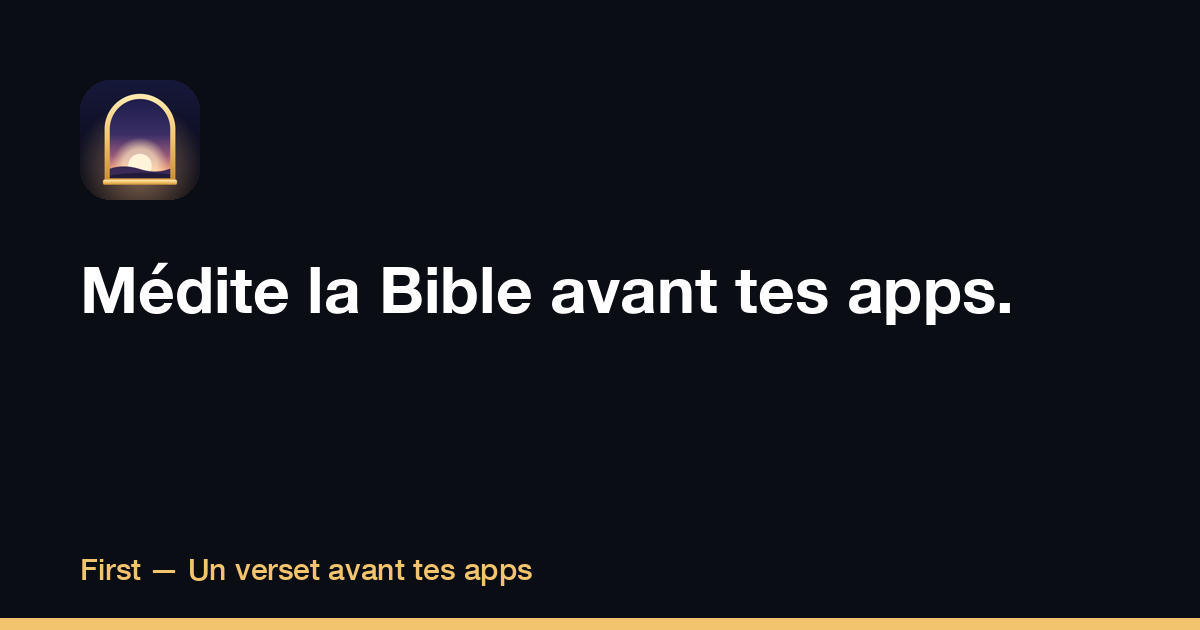
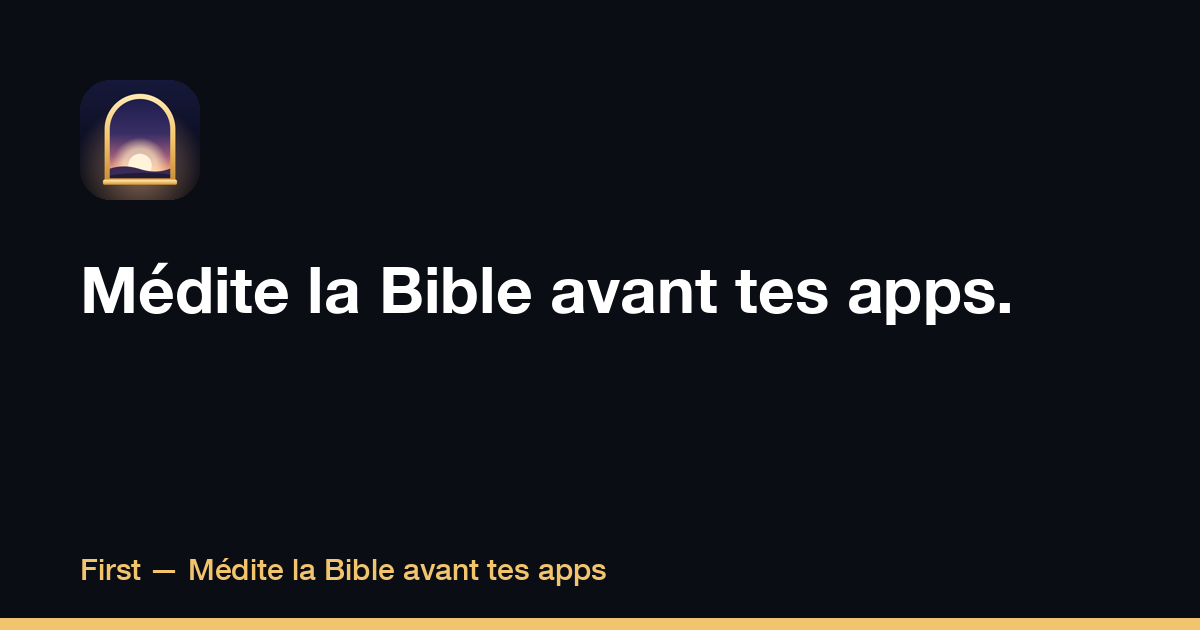
feat(first): show the new tagline on every First page, support page included

Changed region(s): [[0.1542, 0.8746, 0.5242, 0.9349]]

diff --git a/fr/first/index.html b/fr/first/index.html
@@ -3,7 +3,7 @@
 <head>
 <meta charset="utf-8">
 <meta name="viewport" content="width=device-width, initial-scale=1">
-<title>First — un verset de la Bible avant vos apps, chaque jour</title>
+<title>First — Médite la Bible avant tes apps</title>
 <meta name="description" content="First garde vos apps (réseaux sociaux…) verrouillées avec Temps d’écran jusqu’à la lecture du verset du jour : 30 secondes, puis tout se débloque. Sans compte.">
 <link rel="canonical" href="https://apps.shipit.group/fr/first/">
 <link rel="alternate" hreflang="en" href="https://apps.shipit.group/first/"><link rel="alternate" hreflang="fr" href="https://apps.shipit.group/fr/first/"><link rel="alternate" hreflang="x-default" href="https://apps.shipit.group/first/">
@@ -12,7 +12,7 @@
 <meta property="og:type" content="website">
 <meta property="og:site_name" content="SHIP IT">
 <meta property="og:locale" content="fr_FR">
-<meta property="og:title" content="First — un verset de la Bible avant vos apps, chaque jour">
+<meta property="og:title" content="First — Médite la Bible avant tes apps">
 <meta property="og:description" content="First garde vos apps (réseaux sociaux…) verrouillées avec Temps d’écran jusqu’à la lecture du verset du jour : 30 secondes, puis tout se débloque. Sans compte.">
 <meta property="og:url" content="https://apps.shipit.group/fr/first/">
 <meta property="og:image" content="https://apps.shipit.group/assets/site/og/first-fr.png">
@@ -24,7 +24,7 @@
 <style>:root{--strong:#8C6420;--bright:#F2C46D;--tint:#F6EAD0;--wash:#FBF6EC;--deep:#0B0D14;--ondark:#F2C46D;--mutedd:#C9C3B4;--bord:#262A38;--panel:linear-gradient(160deg,#2A2F4A,#0B0D14);--inktint:#0B0D14}</style>
 <link rel="icon" href="/assets/site/favicon.svg" type="image/svg+xml">
 <link rel="alternate" type="application/rss+xml" title="SHIP IT" href="https://apps.shipit.group/fr/feed.xml">
-<script type="application/ld+json">{"@context": "https://schema.org", "@type": "MobileApplication", "name": "First — Un verset avant tes apps", "operatingSystem": "iOS 18.0", "applicationCategory": "LifestyleApplication", "description": "First garde vos apps (réseaux sociaux…) verrouillées avec Temps d’écran jusqu’à la lecture du verset du jour : 30 secondes, puis tout se débloque. Sans compte.", "url": "https://apps.shipit.group/fr/first/", "downloadUrl": "https://apps.apple.com/fr/app/id6822062329", "image": "https://apps.shipit.group/assets/icons/first.png", "inLanguage": "fr", "offers": [{"@type": "Offer", "price": "6.99", "priceCurrency": "EUR"}, {"@type": "Offer", "price": "39.99", "priceCurrency": "EUR"}], "publisher": {"@type": "Organization", "name": "SHIP IT", "url": "https://apps.shipit.group/", "email": "contact@shipit.group", "logo": "https://apps.shipit.group/assets/site/favicon.svg"}}</script><script type="application/ld+json">{"@context": "https://schema.org", "@type": "BreadcrumbList", "itemListElement": [{"@type": "ListItem", "position": 1, "name": "Accueil", "item": "https://apps.shipit.group/fr/"}, {"@type": "ListItem", "position": 2, "name": "First", "item": "https://apps.shipit.group/fr/first/"}]}</script><script type="application/ld+json">{"@context": "https://schema.org", "@type": "FAQPage", "mainEntity": [{"@type": "Question", "name": "Comment fonctionne First ?", "acceptedAnswer": {"@type": "Answer", "text": "Les apps que vous choisissez restent verrouillées via Temps d’écran jusqu’à la lecture du verset du jour : environ 30 secondes avec un verset, une réflexion, une prière et un quiz facultatif. Ensuite, elles se débloquent."}}, {"@type": "Question", "name": "First voit-il mes apps ?", "acceptedAnswer": {"@type": "Answer", "text": "Non. Apple ne transmet à First que des jetons opaques : First ne voit ni le nom de vos apps ni l’usage que vous en faites."}}, {"@type": "Question", "name": "Faut-il créer un compte ?", "acceptedAnswer": {"@type": "Answer", "text": "Non. Tout est stocké sur votre iPhone, sans iCloud ni serveur First."}}, {"@type": "Question", "name": "Et en cas d’urgence ?", "acceptedAnswer": {"@type": "Answer", "text": "Un déblocage d’urgence de 15 minutes est disponible à tout moment."}}, {"@type": "Question", "name": "Combien coûte First ?", "acceptedAnswer": {"@type": "Answer", "text": "First Premium coûte 39,99 € par an avec 3 jours d’essai gratuit, ou 6,99 € par mois. L’abonnement se renouvelle automatiquement et se résilie dans les réglages de votre identifiant Apple."}}]}</script>
+<script type="application/ld+json">{"@context": "https://schema.org", "@type": "MobileApplication", "name": "First — Médite la Bible avant tes apps", "operatingSystem": "iOS 18.0", "applicationCategory": "LifestyleApplication", "description": "First garde vos apps (réseaux sociaux…) verrouillées avec Temps d’écran jusqu’à la lecture du verset du jour : 30 secondes, puis tout se débloque. Sans compte.", "url": "https://apps.shipit.group/fr/first/", "downloadUrl": "https://apps.apple.com/fr/app/id6822062329", "image": "https://apps.shipit.group/assets/icons/first.png", "inLanguage": "fr", "offers": [{"@type": "Offer", "price": "6.99", "priceCurrency": "EUR"}, {"@type": "Offer", "price": "39.99", "priceCurrency": "EUR"}], "publisher": {"@type": "Organization", "name": "SHIP IT", "url": "https://apps.shipit.group/", "email": "contact@shipit.group", "logo": "https://apps.shipit.group/assets/site/favicon.svg"}}</script><script type="application/ld+json">{"@context": "https://schema.org", "@type": "BreadcrumbList", "itemListElement": [{"@type": "ListItem", "position": 1, "name": "Accueil", "item": "https://apps.shipit.group/fr/"}, {"@type": "ListItem", "position": 2, "name": "First", "item": "https://apps.shipit.group/fr/first/"}]}</script><script type="application/ld+json">{"@context": "https://schema.org", "@type": "FAQPage", "mainEntity": [{"@type": "Question", "name": "Comment fonctionne First ?", "acceptedAnswer": {"@type": "Answer", "text": "Les apps que vous choisissez restent verrouillées via Temps d’écran jusqu’à la lecture du verset du jour : environ 30 secondes avec un verset, une réflexion, une prière et un quiz facultatif. Ensuite, elles se débloquent."}}, {"@type": "Question", "name": "First voit-il mes apps ?", "acceptedAnswer": {"@type": "Answer", "text": "Non. Apple ne transmet à First que des jetons opaques : First ne voit ni le nom de vos apps ni l’usage que vous en faites."}}, {"@type": "Question", "name": "Faut-il créer un compte ?", "acceptedAnswer": {"@type": "Answer", "text": "Non. Tout est stocké sur votre iPhone, sans iCloud ni serveur First."}}, {"@type": "Question", "name": "Et en cas d’urgence ?", "acceptedAnswer": {"@type": "Answer", "text": "Un déblocage d’urgence de 15 minutes est disponible à tout moment."}}, {"@type": "Question", "name": "Combien coûte First ?", "acceptedAnswer": {"@type": "Answer", "text": "First Premium coûte 39,99 € par an avec 3 jours d’essai gratuit, ou 6,99 € par mois. L’abonnement se renouvelle automatiquement et se résilie dans les réglages de votre identifiant Apple."}}]}</script>
 </head>
 <body>
 <a class="skip" href="#main">Aller au contenu</a>
@@ -36,7 +36,7 @@
 <nav class="wrap crumbs" aria-label="Fil d’Ariane"><ol><li><a href="/fr/">Accueil</a></li><li aria-current="page">First</li></ol></nav>
 <section class="wrap app-hero" aria-labelledby="hero-t">
 <div class="app-hero__copy">
-<div class="app-hero__id"><img class="icon" src="/assets/icons/first.png" alt="" width="72" height="72"><div><strong>First — Un verset avant tes apps</strong><span>iPhone · iOS 18 et plus · FR, EN, ES, IT, PT</span></div></div>
+<div class="app-hero__id"><img class="icon" src="/assets/icons/first.png" alt="" width="72" height="72"><div><strong>First — Médite la Bible avant tes apps</strong><span>iPhone · iOS 18 et plus · FR, EN, ES, IT, PT</span></div></div>
 <h1 id="hero-t" class="h-display">Médite la Bible avant tes apps.</h1>
 <p class="lead">« Cherchez premièrement le royaume de Dieu » (Matthieu 6:33). First garde les apps que vous choisissez verrouillées jusqu’à votre verset du jour. 30 secondes, puis tout se débloque.</p>
 <div class="app-hero__cta"><a class="btn-appstore" href="https://apps.apple.com/fr/app/id6822062329"><svg width="22" height="22" viewBox="0 0 24 24" fill="none" aria-hidden="true"><path d="M12 3v12m0 0l-5-5m5 5l5-5M5 20h14" stroke="currentColor" stroke-width="1.8" stroke-linecap="round" stroke-linejoin="round"/></svg><span><small>Télécharger dans</small><strong>l’App Store</strong></span></a><span class="app-hero__price">First Premium · annuel 39,99 € avec 3 jours d’essai gratuit · mensuel 6,99 €</span></div>
@@ -53,7 +53,7 @@
 <div class="features"><div class="feature"><span class="feature__n" aria-hidden="true">01</span><h3 class="h3">Vos apps attendent</h3><p>Réseaux sociaux ou autres : les apps choisies restent verrouillées via Temps d’écran jusqu’à votre lecture du jour.</p></div><div class="feature"><span class="feature__n" aria-hidden="true">02</span><h3 class="h3">30 secondes avec Dieu</h3><p>Un verset, une réflexion, une prière et un quiz facultatif. Ensuite, vos apps se débloquent.</p></div><div class="feature"><span class="feature__n" aria-hidden="true">03</span><h3 class="h3">Plans de lecture</h3><p>La Bible en 1 an, les psaumes et d’autres plans, à votre rythme.</p></div><div class="feature"><span class="feature__n" aria-hidden="true">04</span><h3 class="h3">Versets favoris</h3><p>Gardez les versets qui vous parlent pour les relire.</p></div><div class="feature"><span class="feature__n" aria-hidden="true">05</span><h3 class="h3">Widgets et série</h3><p>Le verset et votre série « Jour N » sur l’écran d’accueil.</p></div><div class="feature"><span class="feature__n" aria-hidden="true">06</span><h3 class="h3">Déblocage d’urgence</h3><p>Besoin d’une app tout de suite ? Débloquez 15 minutes, à tout moment.</p></div></div>
 </div></section>
 <section class="sect sect--deep" aria-labelledby="hl-t"><div class="wrap split">
-<div style="display:flex;flex-direction:column;gap:20px"><p class="eyebrow">Le principe</p><h2 id="hl-t" class="h2">Un verset avant tes apps.</h2><p style="margin:0;max-width:480px;font-size:18px;line-height:1.55;color:var(--mutedd)">Vos apps restent verrouillées jusqu’à la lecture. First ne voit ni le nom de vos apps ni ce que vous y faites.</p></div>
+<div style="display:flex;flex-direction:column;gap:20px"><p class="eyebrow">Le principe</p><h2 id="hl-t" class="h2">Médite la Bible avant tes apps.</h2><p style="margin:0;max-width:480px;font-size:18px;line-height:1.55;color:var(--mutedd)">Vos apps restent verrouillées jusqu’à la lecture. First ne voit ni le nom de vos apps ni ce que vous y faites.</p></div>
 <dl class="stats"><div><dt>30 s</dt><dd>Pour le verset du jour</dd></div><div><dt>15 min</dt><dd>De déblocage d’urgence</dd></div><div><dt>0</dt><dd>Compte à créer</dd></div></dl>
 </div></section>
 <section id="pricing" class="wrap sect" aria-labelledby="price-t"><div style="display:flex;flex-direction:column;gap:12px;align-items:center;text-align:center"><p class="eyebrow">Tarifs</p><h2 id="price-t" class="h2">Commencez gratuitement.</h2></div><div class="plans"><div class="plan"><h3>Mensuel</h3><p class="plan__price">6,99 €</p><p class="muted">par mois. Blocage des apps, widgets et plans de lecture.</p><a class="btn btn--ghost" href="https://apps.apple.com/fr/app/id6822062329">Télécharger</a></div><div class="plan plan--pro"><div class="plan__head"><h3>Annuel</h3><span class=badge-white>3 jours offerts</span></div><p class="plan__price">39,99 €</p><p>par an. 3 jours d’essai gratuit.</p><a class="btn btn--white" href="https://apps.apple.com/fr/app/id6822062329">Essayer</a></div></div></section>

diff --git a/first/index.html b/first/index.html
@@ -3,7 +3,7 @@
 <head>
 <meta charset="utf-8">
 <meta name="viewport" content="width=device-width, initial-scale=1">
-<title>First — a Bible verse before your apps, every day</title>
+<title>First — Meditate on the Bible before your apps</title>
 <meta name="description" content="First keeps your apps (social media…) locked with Screen Time until you read the verse of the day: 30 seconds, then everything unlocks. No account.">
 <link rel="canonical" href="https://apps.shipit.group/first/">
 <link rel="alternate" hreflang="en" href="https://apps.shipit.group/first/"><link rel="alternate" hreflang="fr" href="https://apps.shipit.group/fr/first/"><link rel="alternate" hreflang="x-default" href="https://apps.shipit.group/first/">
@@ -12,7 +12,7 @@
 <meta property="og:type" content="website">
 <meta property="og:site_name" content="SHIP IT">
 <meta property="og:locale" content="en_US">
-<meta property="og:title" content="First — a Bible verse before your apps, every day">
+<meta property="og:title" content="First — Meditate on the Bible before your apps">
 <meta property="og:description" content="First keeps your apps (social media…) locked with Screen Time until you read the verse of the day: 30 seconds, then everything unlocks. No account.">
 <meta property="og:url" content="https://apps.shipit.group/first/">
 <meta property="og:image" content="https://apps.shipit.group/assets/site/og/first-en.png">
@@ -24,7 +24,7 @@
 <style>:root{--strong:#8C6420;--bright:#F2C46D;--tint:#F6EAD0;--wash:#FBF6EC;--deep:#0B0D14;--ondark:#F2C46D;--mutedd:#C9C3B4;--bord:#262A38;--panel:linear-gradient(160deg,#2A2F4A,#0B0D14);--inktint:#0B0D14}</style>
 <link rel="icon" href="/assets/site/favicon.svg" type="image/svg+xml">
 <link rel="alternate" type="application/rss+xml" title="SHIP IT" href="https://apps.shipit.group/feed.xml">
-<script type="application/ld+json">{"@context": "https://schema.org", "@type": "MobileApplication", "name": "First — A verse before your apps", "operatingSystem": "iOS 18.0", "applicationCategory": "LifestyleApplication", "description": "First keeps your apps (social media…) locked with Screen Time until you read the verse of the day: 30 seconds, then everything unlocks. No account.", "url": "https://apps.shipit.group/first/", "downloadUrl": "https://apps.apple.com/app/id6822062329", "image": "https://apps.shipit.group/assets/icons/first.png", "inLanguage": "en", "offers": [{"@type": "Offer", "price": "6.99", "priceCurrency": "EUR"}, {"@type": "Offer", "price": "39.99", "priceCurrency": "EUR"}], "publisher": {"@type": "Organization", "name": "SHIP IT", "url": "https://apps.shipit.group/", "email": "contact@shipit.group", "logo": "https://apps.shipit.group/assets/site/favicon.svg"}}</script><script type="application/ld+json">{"@context": "https://schema.org", "@type": "BreadcrumbList", "itemListElement": [{"@type": "ListItem", "position": 1, "name": "Home", "item": "https://apps.shipit.group/"}, {"@type": "ListItem", "position": 2, "name": "First", "item": "https://apps.shipit.group/first/"}]}</script><script type="application/ld+json">{"@context": "https://schema.org", "@type": "FAQPage", "mainEntity": [{"@type": "Question", "name": "How does First work?", "acceptedAnswer": {"@type": "Answer", "text": "The apps you choose stay locked with Screen Time until you read the verse of the day: about 30 seconds with a verse, a reflection, a prayer and an optional quiz. Then they unlock."}}, {"@type": "Question", "name": "Can First see my apps?", "acceptedAnswer": {"@type": "Answer", "text": "No. Apple only gives First opaque tokens: First cannot see the names of your apps or how you use them."}}, {"@type": "Question", "name": "Do I need an account?", "acceptedAnswer": {"@type": "Answer", "text": "No. Everything is stored on your iPhone, with no iCloud and no First server."}}, {"@type": "Question", "name": "What if it’s an emergency?", "acceptedAnswer": {"@type": "Answer", "text": "A 15-minute emergency unlock is available at any time."}}, {"@type": "Question", "name": "How much does First cost?", "acceptedAnswer": {"@type": "Answer", "text": "First Premium costs €39.99 per year with a 3-day free trial, or €6.99 per month. The subscription renews automatically and can be cancelled in your Apple ID settings."}}]}</script>
+<script type="application/ld+json">{"@context": "https://schema.org", "@type": "MobileApplication", "name": "First — Meditate on the Bible before your apps", "operatingSystem": "iOS 18.0", "applicationCategory": "LifestyleApplication", "description": "First keeps your apps (social media…) locked with Screen Time until you read the verse of the day: 30 seconds, then everything unlocks. No account.", "url": "https://apps.shipit.group/first/", "downloadUrl": "https://apps.apple.com/app/id6822062329", "image": "https://apps.shipit.group/assets/icons/first.png", "inLanguage": "en", "offers": [{"@type": "Offer", "price": "6.99", "priceCurrency": "EUR"}, {"@type": "Offer", "price": "39.99", "priceCurrency": "EUR"}], "publisher": {"@type": "Organization", "name": "SHIP IT", "url": "https://apps.shipit.group/", "email": "contact@shipit.group", "logo": "https://apps.shipit.group/assets/site/favicon.svg"}}</script><script type="application/ld+json">{"@context": "https://schema.org", "@type": "BreadcrumbList", "itemListElement": [{"@type": "ListItem", "position": 1, "name": "Home", "item": "https://apps.shipit.group/"}, {"@type": "ListItem", "position": 2, "name": "First", "item": "https://apps.shipit.group/first/"}]}</script><script type="application/ld+json">{"@context": "https://schema.org", "@type": "FAQPage", "mainEntity": [{"@type": "Question", "name": "How does First work?", "acceptedAnswer": {"@type": "Answer", "text": "The apps you choose stay locked with Screen Time until you read the verse of the day: about 30 seconds with a verse, a reflection, a prayer and an optional quiz. Then they unlock."}}, {"@type": "Question", "name": "Can First see my apps?", "acceptedAnswer": {"@type": "Answer", "text": "No. Apple only gives First opaque tokens: First cannot see the names of your apps or how you use them."}}, {"@type": "Question", "name": "Do I need an account?", "acceptedAnswer": {"@type": "Answer", "text": "No. Everything is stored on your iPhone, with no iCloud and no First server."}}, {"@type": "Question", "name": "What if it’s an emergency?", "acceptedAnswer": {"@type": "Answer", "text": "A 15-minute emergency unlock is available at any time."}}, {"@type": "Question", "name": "How much does First cost?", "acceptedAnswer": {"@type": "Answer", "text": "First Premium costs €39.99 per year with a 3-day free trial, or €6.99 per month. The subscription renews automatically and can be cancelled in your Apple ID settings."}}]}</script>
 </head>
 <body>
 <a class="skip" href="#main">Skip to content</a>
@@ -36,7 +36,7 @@
 <nav class="wrap crumbs" aria-label="Breadcrumb"><ol><li><a href="/">Home</a></li><li aria-current="page">First</li></ol></nav>
 <section class="wrap app-hero" aria-labelledby="hero-t">
 <div class="app-hero__copy">
-<div class="app-hero__id"><img class="icon" src="/assets/icons/first.png" alt="" width="72" height="72"><div><strong>First — A verse before your apps</strong><span>iPhone · iOS 18 or later · EN, FR, ES, IT, PT</span></div></div>
+<div class="app-hero__id"><img class="icon" src="/assets/icons/first.png" alt="" width="72" height="72"><div><strong>First — Meditate on the Bible before your apps</strong><span>iPhone · iOS 18 or later · EN, FR, ES, IT, PT</span></div></div>
 <h1 id="hero-t" class="h-display">Meditate on the Bible before your apps.</h1>
 <p class="lead">“Seek ye first the kingdom of God” (Matthew 6:33). First keeps the apps you choose locked until you read your verse of the day. 30 seconds, then everything unlocks.</p>
 <div class="app-hero__cta"><a class="btn-appstore" href="https://apps.apple.com/app/id6822062329"><svg width="22" height="22" viewBox="0 0 24 24" fill="none" aria-hidden="true"><path d="M12 3v12m0 0l-5-5m5 5l5-5M5 20h14" stroke="currentColor" stroke-width="1.8" stroke-linecap="round" stroke-linejoin="round"/></svg><span><small>Download on the</small><strong>App Store</strong></span></a><span class="app-hero__price">First Premium · yearly €39.99 with a 3-day free trial · monthly €6.99</span></div>
@@ -53,7 +53,7 @@
 <div class="features"><div class="feature"><span class="feature__n" aria-hidden="true">01</span><h3 class="h3">Your apps can wait</h3><p>Social media or anything else: the apps you choose stay locked with Screen Time until you read today’s verse.</p></div><div class="feature"><span class="feature__n" aria-hidden="true">02</span><h3 class="h3">30 seconds with God</h3><p>A verse, a reflection, a prayer and an optional quiz. Then your apps unlock.</p></div><div class="feature"><span class="feature__n" aria-hidden="true">03</span><h3 class="h3">Reading plans</h3><p>The Bible in a year, the Psalms and more, at your own pace.</p></div><div class="feature"><span class="feature__n" aria-hidden="true">04</span><h3 class="h3">Favorite verses</h3><p>Keep the verses that speak to you and read them again.</p></div><div class="feature"><span class="feature__n" aria-hidden="true">05</span><h3 class="h3">Widgets and streak</h3><p>The verse and your “Day N” streak on your Home Screen.</p></div><div class="feature"><span class="feature__n" aria-hidden="true">06</span><h3 class="h3">Emergency unlock</h3><p>Need an app right now? Unlock for 15 minutes, any time.</p></div></div>
 </div></section>
 <section class="sect sect--deep" aria-labelledby="hl-t"><div class="wrap split">
-<div style="display:flex;flex-direction:column;gap:20px"><p class="eyebrow">How it works</p><h2 id="hl-t" class="h2">A verse before your apps.</h2><p style="margin:0;max-width:480px;font-size:18px;line-height:1.55;color:var(--mutedd)">Your apps stay locked until you read. First cannot see the names of your apps or what you do in them.</p></div>
+<div style="display:flex;flex-direction:column;gap:20px"><p class="eyebrow">How it works</p><h2 id="hl-t" class="h2">Meditate on the Bible before your apps.</h2><p style="margin:0;max-width:480px;font-size:18px;line-height:1.55;color:var(--mutedd)">Your apps stay locked until you read. First cannot see the names of your apps or what you do in them.</p></div>
 <dl class="stats"><div><dt>30 s</dt><dd>For the verse of the day</dd></div><div><dt>15 min</dt><dd>Emergency unlock</dd></div><div><dt>0</dt><dd>Accounts to create</dd></div></dl>
 </div></section>
 <section id="pricing" class="wrap sect" aria-labelledby="price-t"><div style="display:flex;flex-direction:column;gap:12px;align-items:center;text-align:center"><p class="eyebrow">Pricing</p><h2 id="price-t" class="h2">Start for free.</h2></div><div class="plans"><div class="plan"><h3>Monthly</h3><p class="plan__price">€6.99</p><p class="muted">per month. App locking, widgets and reading plans.</p><a class="btn btn--ghost" href="https://apps.apple.com/app/id6822062329">Download</a></div><div class="plan plan--pro"><div class="plan__head"><h3>Yearly</h3><span class=badge-white>3 days free</span></div><p class="plan__price">€39.99</p><p>per year. 3-day free trial.</p><a class="btn btn--white" href="https://apps.apple.com/app/id6822062329">Try it</a></div></div></section>

diff --git a/first/support.html b/first/support.html
@@ -60,7 +60,7 @@
           <details class="faq-item animate-in animate-in-delay-1">
             <summary>Comment fonctionne First ?</summary>
             <div class="faq-item__body">
-              <p>Dieu d’abord. Tes apps ensuite. « Cherchez premièrement le royaume de Dieu » (Matthieu 6:33). Les apps que vous choisissez restent verrouillées jusqu’à la lecture du verset du jour : environ 30 secondes avec un verset, une réflexion, une prière et un quiz facultatif. Ensuite, vos apps se débloquent.</p>
+              <p>Médite la Bible avant tes apps. « Cherchez premièrement le royaume de Dieu » (Matthieu 6:33). Les apps que vous choisissez restent verrouillées jusqu’à la lecture du verset du jour : environ 30 secondes avec un verset, une réflexion, une prière et un quiz facultatif. Ensuite, vos apps se débloquent.</p>
             </div>
           </details>
           <details class="faq-item animate-in animate-in-delay-2">
@@ -163,7 +163,7 @@
           <details class="faq-item animate-in animate-in-delay-1">
             <summary>How does First work?</summary>
             <div class="faq-item__body">
-              <p>God first. Your apps next. “Seek ye first the kingdom of God” (Matthew 6:33). The apps you choose stay locked until you read the verse of the day: about 30 seconds with a verse, a reflection, a prayer and an optional quiz. Then your apps unlock.</p>
+              <p>Meditate on the Bible before your apps. “Seek ye first the kingdom of God” (Matthew 6:33). The apps you choose stay locked until you read the verse of the day: about 30 seconds with a verse, a reflection, a prayer and an optional quiz. Then your apps unlock.</p>
             </div>
           </details>
           <details class="faq-item animate-in animate-in-delay-2">
@@ -266,7 +266,7 @@
           <details class="faq-item animate-in animate-in-delay-1">
             <summary>¿Cómo funciona First?</summary>
             <div class="faq-item__body">
-              <p>Dios primero. Tus apps después. «Buscad primeramente el reino de Dios» (Mateo 6:33). Las apps que eliges permanecen bloqueadas hasta que lees el versículo del día: unos 30 segundos con un versículo, una reflexión, una oración y un cuestionario opcional. Después, tus apps se desbloquean.</p>
+              <p>Medita la Biblia antes de tus apps. «Buscad primeramente el reino de Dios» (Mateo 6:33). Las apps que eliges permanecen bloqueadas hasta que lees el versículo del día: unos 30 segundos con un versículo, una reflexión, una oración y un cuestionario opcional. Después, tus apps se desbloquean.</p>
             </div>
           </details>
           <details class="faq-item animate-in animate-in-delay-2">
@@ -369,7 +369,7 @@
           <details class="faq-item animate-in animate-in-delay-1">
             <summary>Come funziona First?</summary>
             <div class="faq-item__body">
-              <p>Prima Dio. Poi le tue app. «Cercate prima il regno di Dio» (Matteo 6:33). Le app che scegli restano bloccate finché non leggi il versetto del giorno: circa 30 secondi con un versetto, una riflessione, una preghiera e un quiz facoltativo. Poi le tue app si sbloccano.</p>
+              <p>Medita la Bibbia prima delle tue app. «Cercate prima il regno di Dio» (Matteo 6:33). Le app che scegli restano bloccate finché non leggi il versetto del giorno: circa 30 secondi con un versetto, una riflessione, una preghiera e un quiz facoltativo. Poi le tue app si sbloccano.</p>
             </div>
           </details>
           <details class="faq-item animate-in animate-in-delay-2">
@@ -472,7 +472,7 @@
           <details class="faq-item animate-in animate-in-delay-1">
             <summary>Como o First funciona?</summary>
             <div class="faq-item__body">
-              <p>Deus primeiro. Seus apps depois. «Buscai primeiro o reino de Deus» (Mateus 6:33). Os apps que você escolhe ficam bloqueados até você ler o versículo do dia: cerca de 30 segundos com um versículo, uma reflexão, uma oração e um quiz opcional. Depois, seus apps são desbloqueados.</p>
+              <p>Medite na Bíblia antes dos seus apps. «Buscai primeiro o reino de Deus» (Mateus 6:33). Os apps que você escolhe ficam bloqueados até você ler o versículo do dia: cerca de 30 segundos com um versículo, uma reflexão, uma oração e um quiz opcional. Depois, seus apps são desbloqueados.</p>
             </div>
           </details>
           <details class="faq-item animate-in animate-in-delay-2">

diff --git a/_build/content_apps.py b/_build/content_apps.py
@@ -159,38 +159,38 @@ APPS = {
   'shot_lang_fallback': 'fr',  # TODO: captures anglaises de First non disponibles
   'i18n': {
    'fr': dict(
-     title='First — un verset de la Bible avant vos apps, chaque jour',
+     title='First — Médite la Bible avant tes apps',
      desc='First garde vos apps (réseaux sociaux…) verrouillées avec Temps d’écran jusqu’à la lecture du verset du jour : 30 secondes, puis tout se débloque. Sans compte.',
-     full_name='First — Un verset avant tes apps', sub='iPhone · iOS 18 et plus · FR, EN, ES, IT, PT',
+     full_name='First — Médite la Bible avant tes apps', sub='iPhone · iOS 18 et plus · FR, EN, ES, IT, PT',
      h1='Médite la Bible avant tes apps.',
      lead='« Cherchez premièrement le royaume de Dieu » (Matthieu 6:33). First garde les apps que vous choisissez verrouillées jusqu’à votre verset du jour. 30 secondes, puis tout se débloque.',
      price_line='First Premium · annuel 39,99 € avec 3 jours d’essai gratuit · mensuel 6,99 €',
      shot_alts=['Accueil : le verset du jour vous attend', 'Écran de blocage : lire pour débloquer', 'Le verset en plein écran', 'Un plan de lecture : la Bible en 1 an', 'Widgets : série et apps en attente'],
      feat_title='Le verset d’abord, le reste ensuite.',
      features=[('Vos apps attendent', 'Réseaux sociaux ou autres : les apps choisies restent verrouillées via Temps d’écran jusqu’à votre lecture du jour.'), ('30 secondes avec Dieu', 'Un verset, une réflexion, une prière et un quiz facultatif. Ensuite, vos apps se débloquent.'), ('Plans de lecture', 'La Bible en 1 an, les psaumes et d’autres plans, à votre rythme.'), ('Versets favoris', 'Gardez les versets qui vous parlent pour les relire.'), ('Widgets et série', 'Le verset et votre série « Jour N » sur l’écran d’accueil.'), ('Déblocage d’urgence', 'Besoin d’une app tout de suite ? Débloquez 15 minutes, à tout moment.')],
-     hl=('Le principe', 'Un verset avant tes apps.', 'Vos apps restent verrouillées jusqu’à la lecture. First ne voit ni le nom de vos apps ni ce que vous y faites.', [('30 s', 'Pour le verset du jour'), ('15 min', 'De déblocage d’urgence'), ('0', 'Compte à créer')]),
+     hl=('Le principe', 'Médite la Bible avant tes apps.', 'Vos apps restent verrouillées jusqu’à la lecture. First ne voit ni le nom de vos apps ni ce que vous y faites.', [('30 s', 'Pour le verset du jour'), ('15 min', 'De déblocage d’urgence'), ('0', 'Compte à créer')]),
      plans=[('Mensuel', '6,99 €', 'par mois. Blocage des apps, widgets et plans de lecture.', False, None), ('Annuel', '39,99 €', 'par an. 3 jours d’essai gratuit.', True, '3 jours offerts')],
      faq=[('Comment fonctionne First ?', 'Les apps que vous choisissez restent verrouillées via Temps d’écran jusqu’à la lecture du verset du jour : environ 30 secondes avec un verset, une réflexion, une prière et un quiz facultatif. Ensuite, elles se débloquent.'), ('First voit-il mes apps ?', 'Non. Apple ne transmet à First que des jetons opaques : First ne voit ni le nom de vos apps ni l’usage que vous en faites.'), ('Faut-il créer un compte ?', 'Non. Tout est stocké sur votre iPhone, sans iCloud ni serveur First.'), ('Et en cas d’urgence ?', 'Un déblocage d’urgence de 15 minutes est disponible à tout moment.'), ('Combien coûte First ?', 'First Premium coûte 39,99 € par an avec 3 jours d’essai gratuit, ou 6,99 € par mois. L’abonnement se renouvelle automatiquement et se résilie dans les réglages de votre identifiant Apple.')],
      cta='Médite la Bible avant tes apps.',
      disclaimer='First est une application éditée par SHIP IT. Ce n’est pas un outil de contrôle parental.',
-     blog_h1='Un verset avant tes apps.', blog_lead='Lecture de la Bible, temps d’écran et habitudes du matin.', blog_title='Blog First',
+     blog_h1='Médite la Bible avant tes apps.', blog_lead='Lecture de la Bible, temps d’écran et habitudes du matin.', blog_title='Blog First',
    ),
    'en': dict(
-     title='First — a Bible verse before your apps, every day',
+     title='First — Meditate on the Bible before your apps',
      desc='First keeps your apps (social media…) locked with Screen Time until you read the verse of the day: 30 seconds, then everything unlocks. No account.',
-     full_name='First — A verse before your apps', sub='iPhone · iOS 18 or later · EN, FR, ES, IT, PT',
+     full_name='First — Meditate on the Bible before your apps', sub='iPhone · iOS 18 or later · EN, FR, ES, IT, PT',
      h1='Meditate on the Bible before your apps.',
      lead='“Seek ye first the kingdom of God” (Matthew 6:33). First keeps the apps you choose locked until you read your verse of the day. 30 seconds, then everything unlocks.',
      price_line='First Premium · yearly €39.99 with a 3-day free trial · monthly €6.99',
      shot_alts=['Home: your verse of the day is waiting', 'Shield screen: read to unlock', 'The verse, full screen', 'A reading plan: the Bible in a year', 'Widgets: streak and apps waiting'],
      feat_title='The verse first, everything else next.',
      features=[('Your apps can wait', 'Social media or anything else: the apps you choose stay locked with Screen Time until you read today’s verse.'), ('30 seconds with God', 'A verse, a reflection, a prayer and an optional quiz. Then your apps unlock.'), ('Reading plans', 'The Bible in a year, the Psalms and more, at your own pace.'), ('Favorite verses', 'Keep the verses that speak to you and read them again.'), ('Widgets and streak', 'The verse and your “Day N” streak on your Home Screen.'), ('Emergency unlock', 'Need an app right now? Unlock for 15 minutes, any time.')],
-     hl=('How it works', 'A verse before your apps.', 'Your apps stay locked until you read. First cannot see the names of your apps or what you do in them.', [('30 s', 'For the verse of the day'), ('15 min', 'Emergency unlock'), ('0', 'Accounts to create')]),
+     hl=('How it works', 'Meditate on the Bible before your apps.', 'Your apps stay locked until you read. First cannot see the names of your apps or what you do in them.', [('30 s', 'For the verse of the day'), ('15 min', 'Emergency unlock'), ('0', 'Accounts to create')]),
      plans=[('Monthly', '€6.99', 'per month. App locking, widgets and reading plans.', False, None), ('Yearly', '€39.99', 'per year. 3-day free trial.', True, '3 days free')],
      faq=[('How does First work?', 'The apps you choose stay locked with Screen Time until you read the verse of the day: about 30 seconds with a verse, a reflection, a prayer and an optional quiz. Then they unlock.'), ('Can First see my apps?', 'No. Apple only gives First opaque tokens: First cannot see the names of your apps or how you use them.'), ('Do I need an account?', 'No. Everything is stored on your iPhone, with no iCloud and no First server.'), ('What if it’s an emergency?', 'A 15-minute emergency unlock is available at any time.'), ('How much does First cost?', 'First Premium costs €39.99 per year with a 3-day free trial, or €6.99 per month. The subscription renews automatically and can be cancelled in your Apple ID settings.')],
      cta='Meditate on the Bible before your apps.',
      disclaimer='First is an app made by SHIP IT. It is not a parental control tool.',
-     blog_h1='A verse before your apps.', blog_lead='Bible reading, screen time and morning habits.', blog_title='First Blog',
+     blog_h1='Meditate on the Bible before your apps.', blog_lead='Bible reading, screen time and morning habits.', blog_title='First Blog',
    ),
   },
 },
